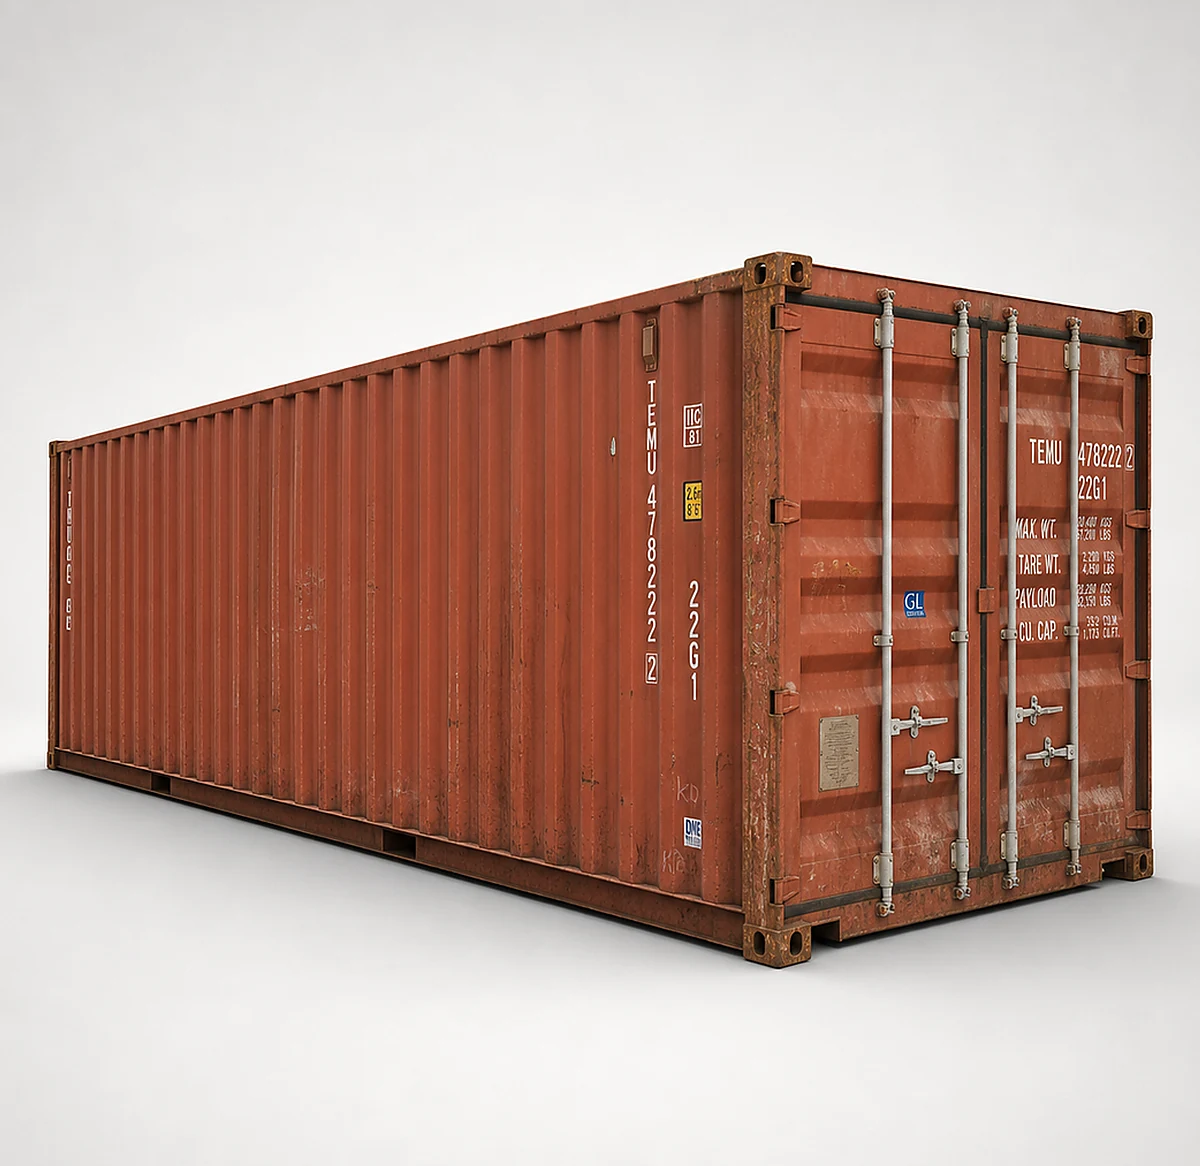
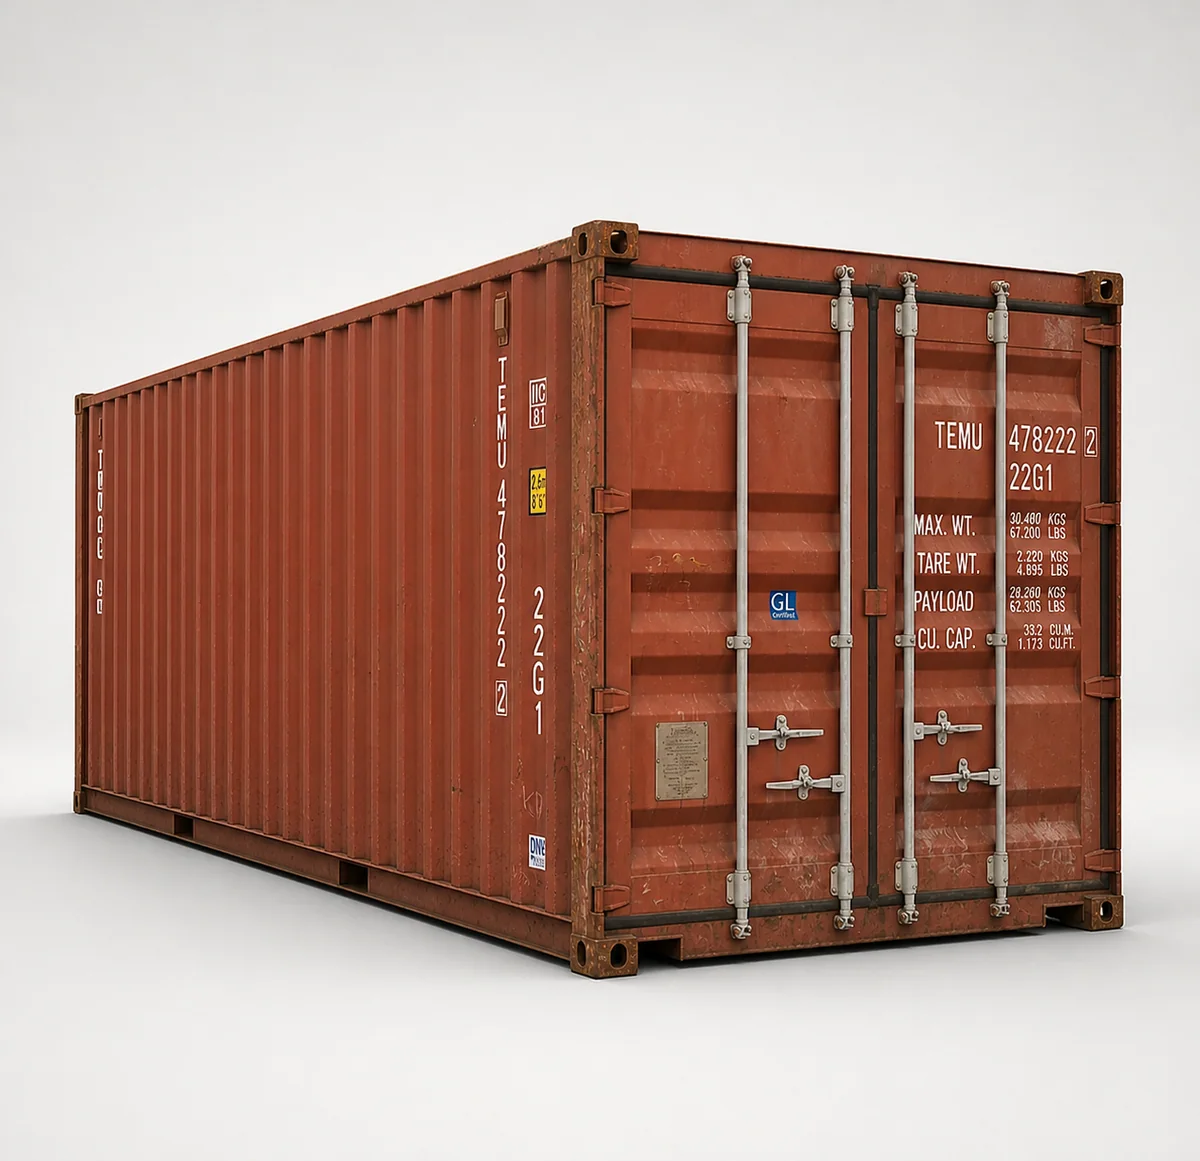
Fix inventory container image proportions

diff --git a/src/components/inventory/InventoryListCard.jsx b/src/components/inventory/InventoryListCard.jsx
@@ -62,6 +62,10 @@ export default function InventoryListCard({ container, index }) {
     container.base_price || container.price || 0,
     savedLocation
   );
+  const imageScaleClass =
+    container?.size === 40
+      ? 'scale-[1.075] sm:scale-[1.10]'
+      : 'scale-[1.025] sm:scale-[1.045]';
 
   const openProduct = (e) => {
     e.stopPropagation();
@@ -99,7 +103,7 @@ export default function InventoryListCard({ container, index }) {
               'https://images.unsplash.com/photo-1519003722824-194d4455a60c?w=800&q=80'
             }
             alt={container.name}
-            className="w-full h-full object-contain object-center hover:scale-[1.02] transition-transform duration-500"
+            className={`w-full h-full object-contain object-center origin-center ${imageScaleClass} hover:scale-[1.12] transition-transform duration-500`}
           />
         </div>
 
